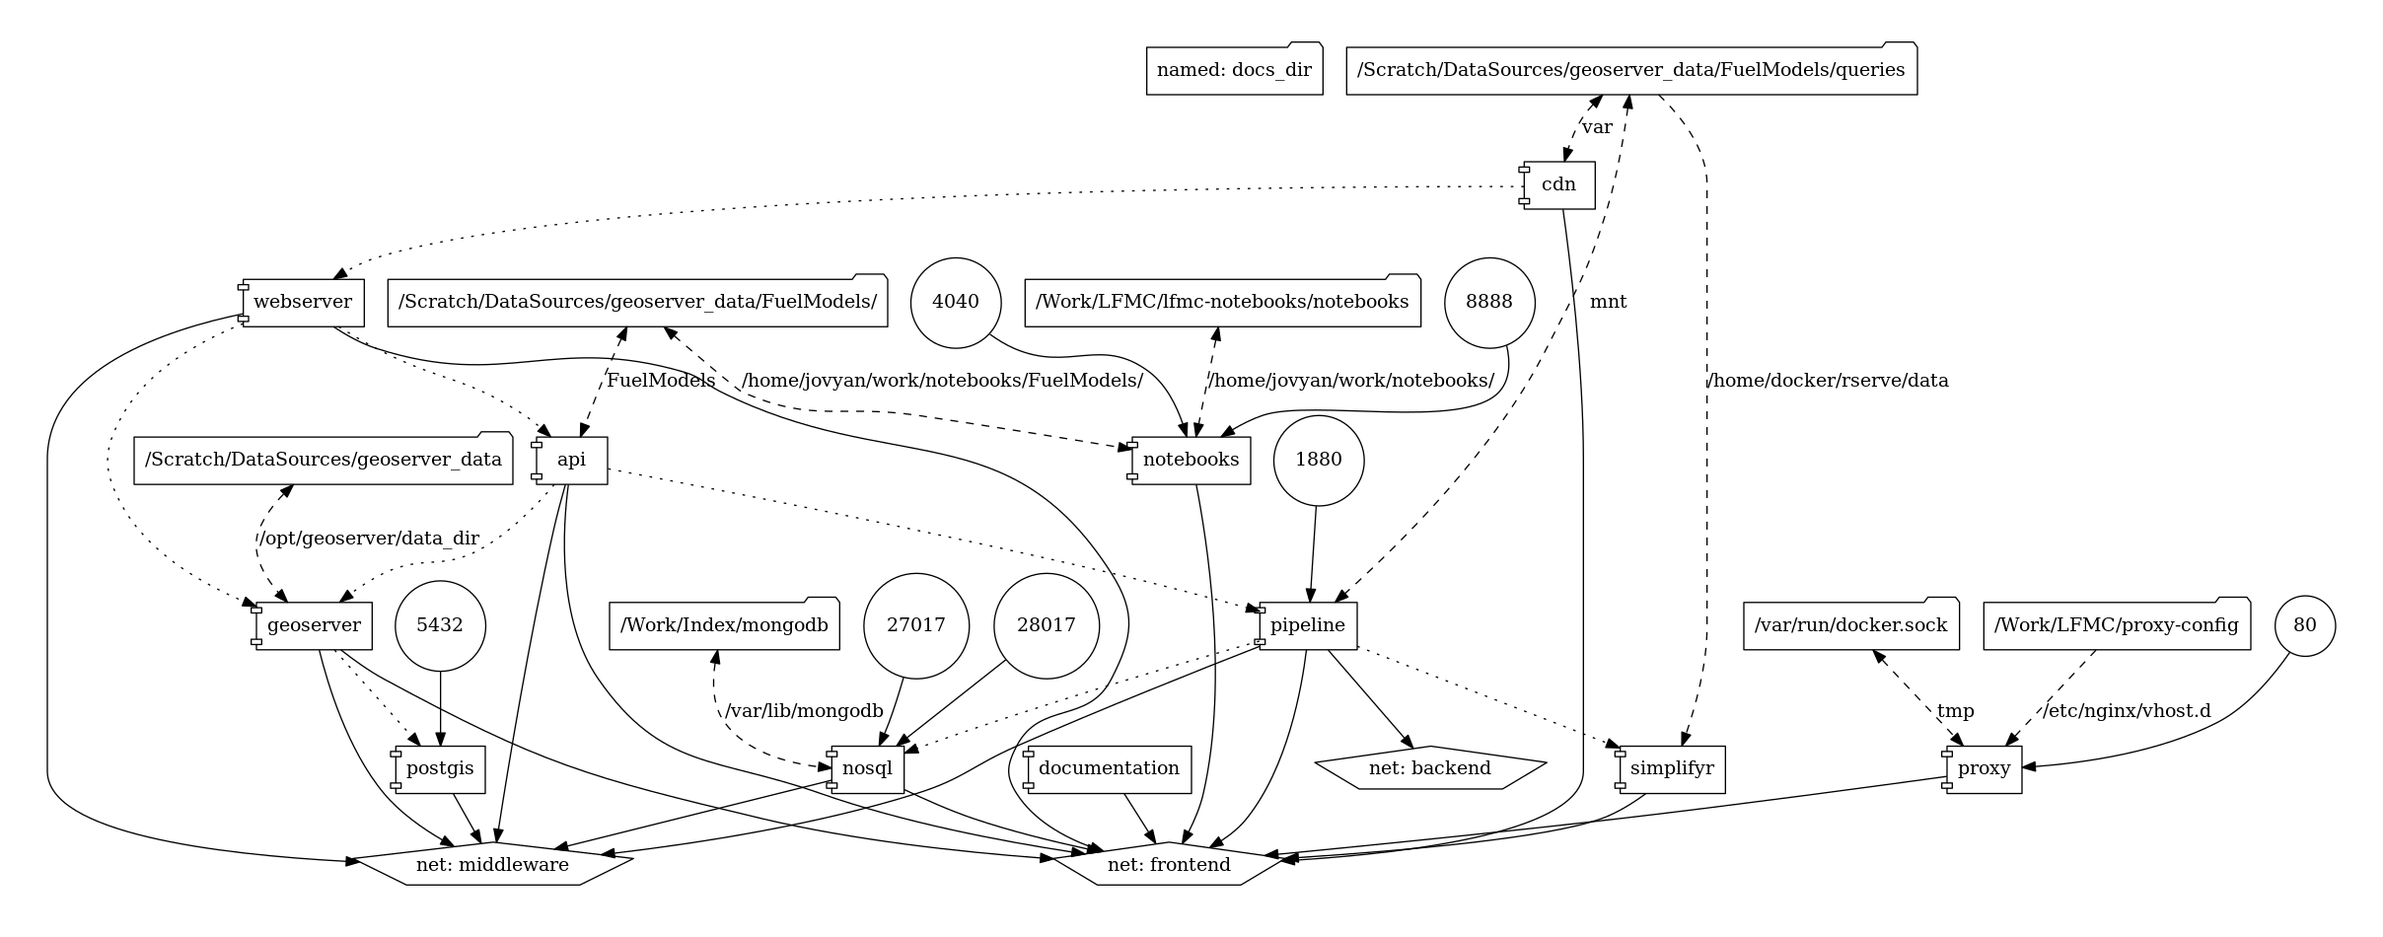
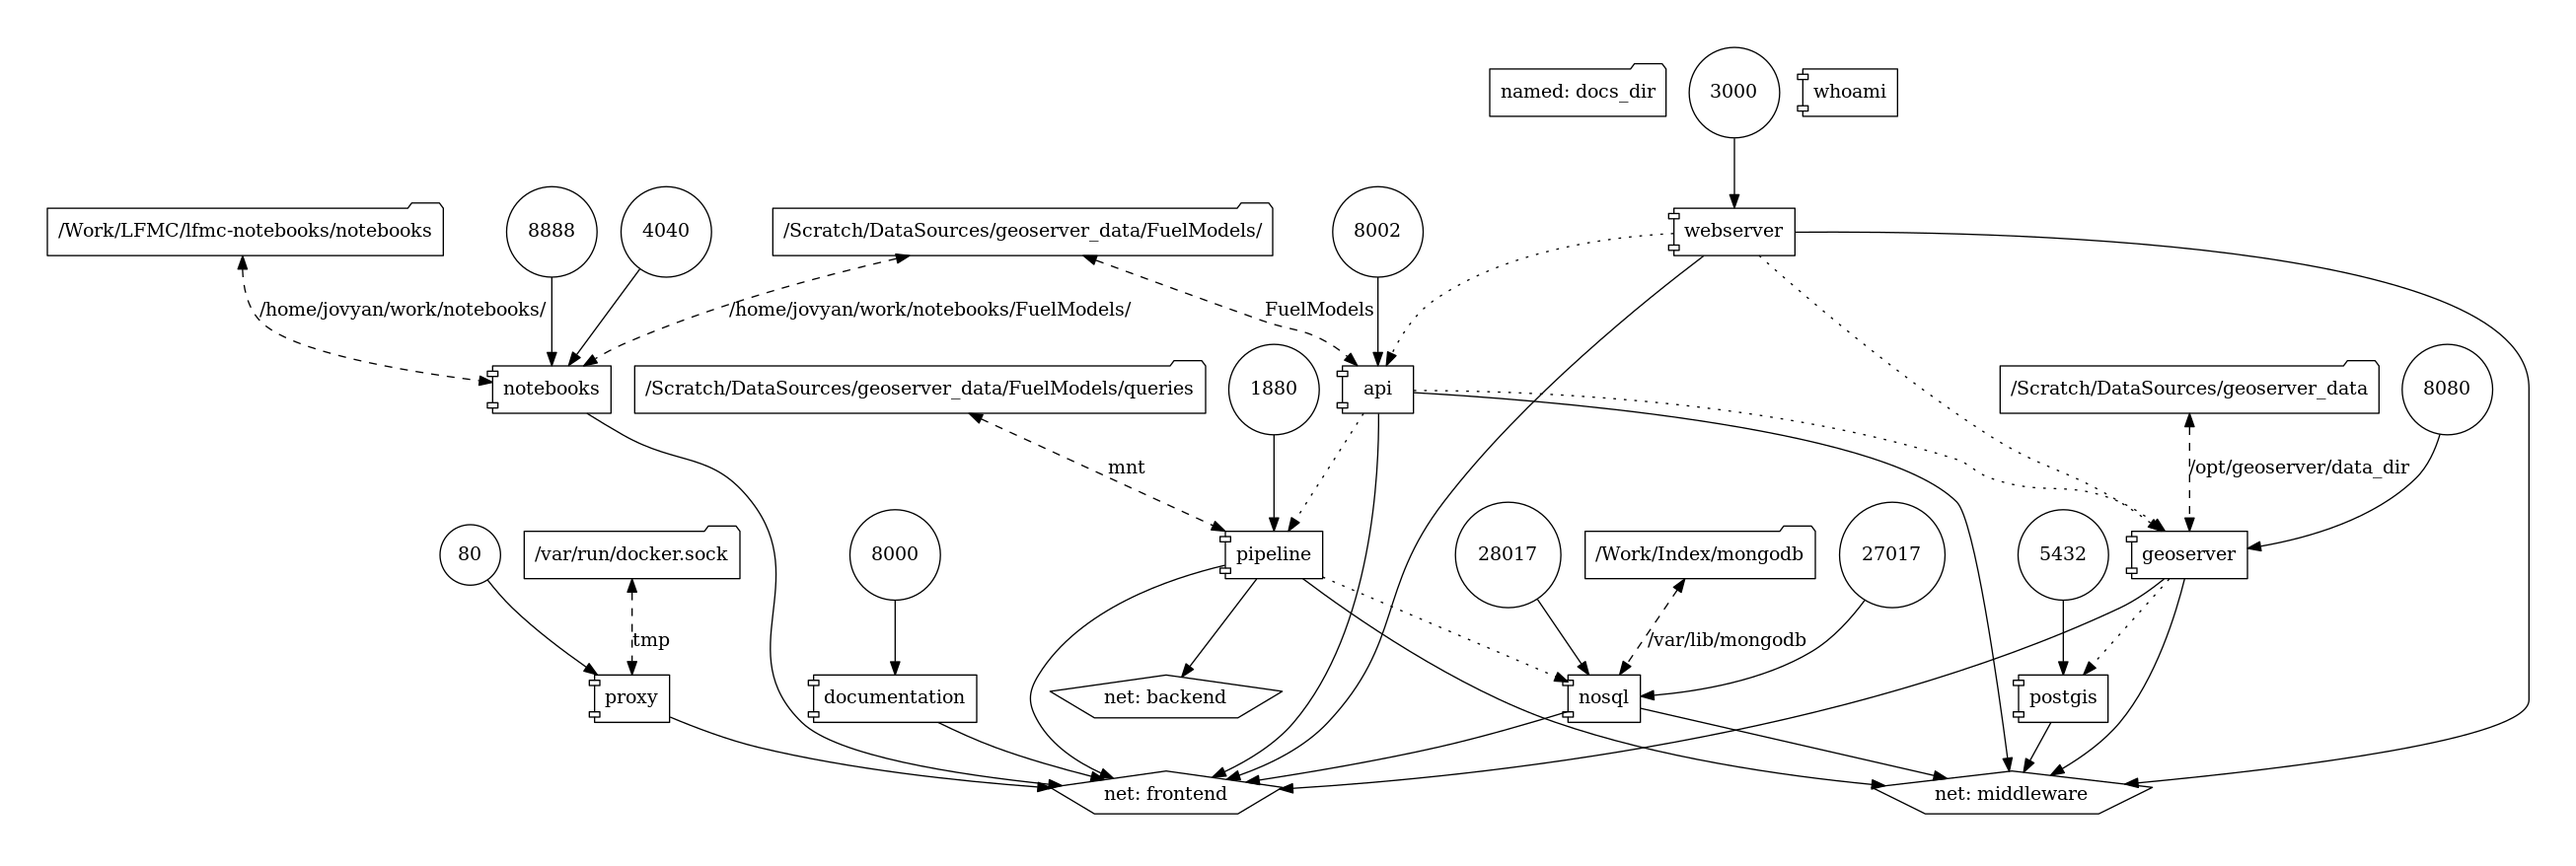
About changes

diff --git a/documents/docs/about.md b/documents/docs/about.md
@@ -4,4 +4,19 @@ The LFMC Project was developed in collaboration with the [University of Melbourn
 
 ### System Overview
 
-![Containers](images/docker-compose.png)
+The LFMC system is built on a MicroService Architecture for modularity, scalability, security, and flexibility.
+
+![Containers](images/MicroServices.png)
+
+The system draws upon raw data products published by the Bureau of Meterology and the National Computing Infrastructure GeoNetwork, and dynamically generates, stores and publishes a selection of Fuel Moisture Models based on the latest Scientific Research.
+
+### Objective
+Fuel Moisture Models each utilise specific metrics, spatial and temporal scales, and as such, apply to the environment in different ways. This project attempted to bring these varying models into a single unified platform to provide a means of comparing and contrasting each product across the Victorian (and sometimes Australian) landscape.
+
+### Outcome
+
+Tools were created to allow the fine grained analysis of each model using spatial and temporal search parameters using common formats such as GeoJSON and ESRI Shapefiles.
+
+The availability of data is determined by the release cycles of the authors including the publishing times of the upstream providers.
+
+The system has been developed to be 'self-healing' and highly performant. However while it will pro-actively seek missing source datasets, communication errors, permissions, or licensing, could possibly prevent timely delivery of results.
